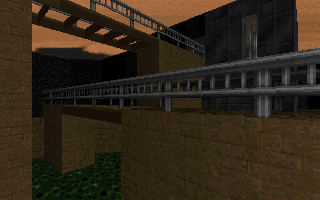
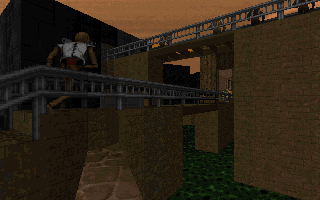
Update screenshots.

diff --git a/README.md b/README.md
@@ -4,7 +4,7 @@
 
 The goal of this project is to make a fully functional Doom source port written in C#.
 
-I'm currently working on the software renderer. The screenshots below show the progress so far.
+The software renderer is almost complete. The screenshots below show the progress so far.
 
 
 
@@ -31,11 +31,14 @@ I'm currently working on the software renderer. The screenshots below show the p
     * [x] Transparent textures
     * [x] Diminishing lighting
     * [x] Sky rendering
-    * [ ] Sprite rendering
-    * [ ] High resolution rendering
-    * [ ] Optimization and benchmark
+    * [x] Sprite rendering
+    * [x] High resolution rendering
+    * [x] Optimization
 
 - Gaming code
+    * [ ] Player movement
+    * [ ] Monster movement
+    * [ ] Doors and platforms
     * [ ] Lots of things
 
 - Audio
